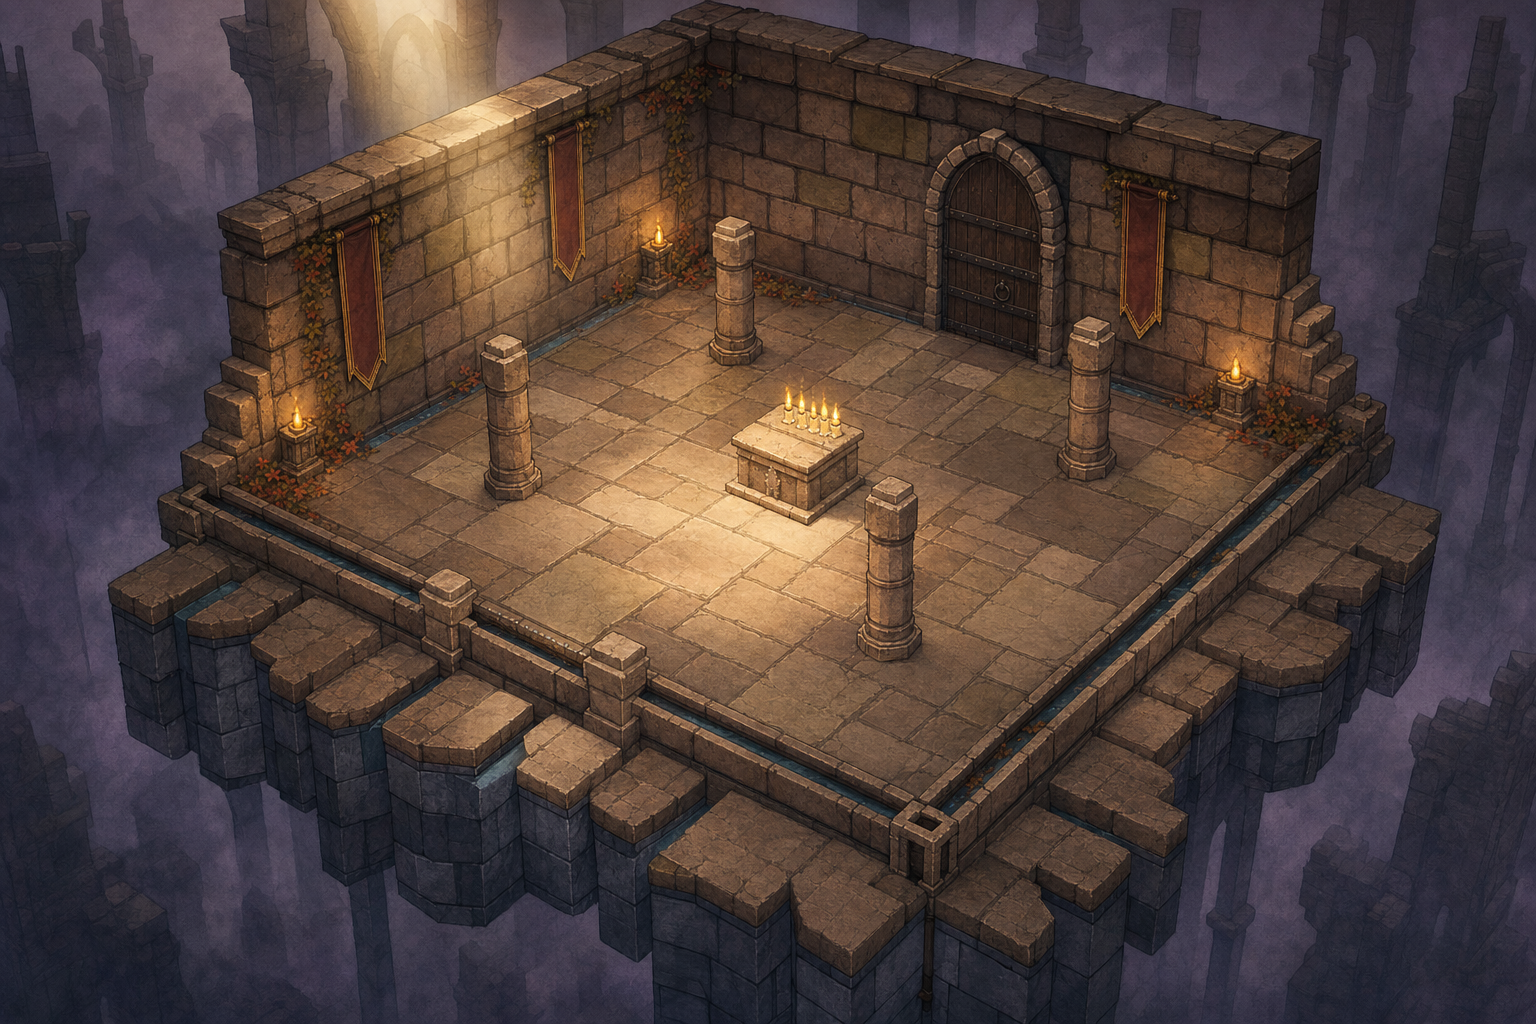
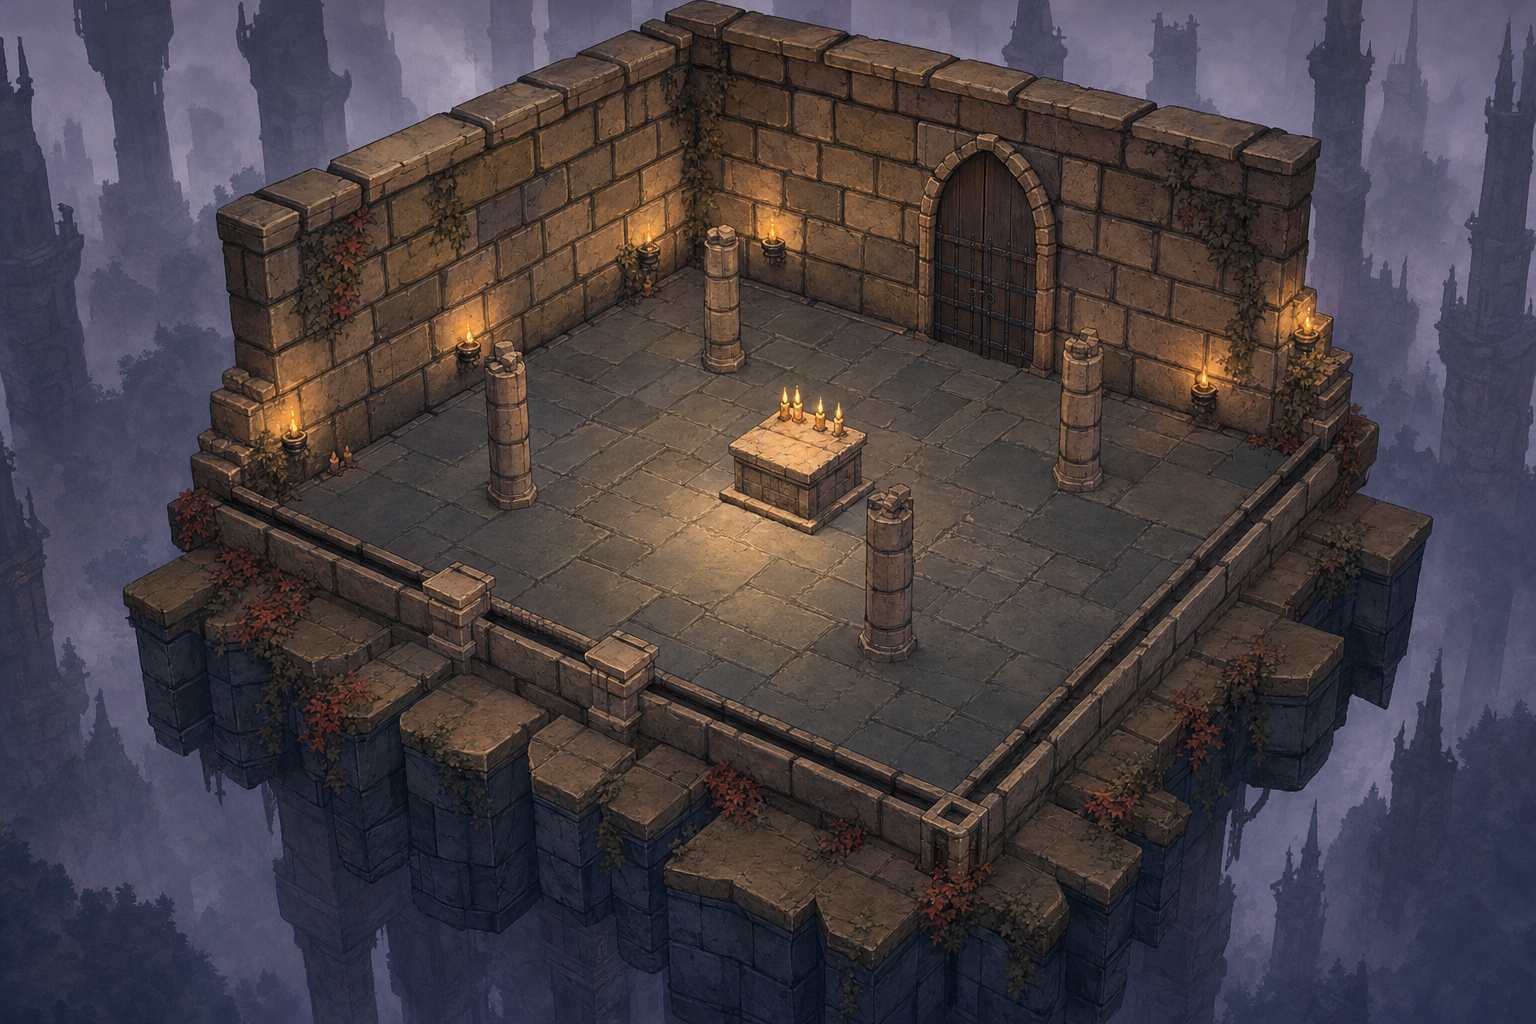
GP-8: Daniel's pick, the dark-floor paintings in all three rooms; exposure back to 0.9

diff --git a/docs/reference/art_core.md b/docs/reference/art_core.md
@@ -327,10 +327,12 @@ The first prototype (an old ChatGPT painting on proxy walls, 15 degree pitch) is
 ### GP-8 shipped (2026-11-27)
 - `PaintedHall.DEFAULT_ON = true`: the Salão (all `hall` rooms: combat, fountain, shop), the Sala 00 and the Antessala show
   the gpt-image-2 paintings in the stylized look (F7 classic shows the old stone). `--painted=off` turns them off.
-- `painted.gdshader`: `exposure` 0.52 (Daniel: the bright painting fought the fighters' contrast); omni lights are clamped
+- `painted.gdshader`: `exposure` 0.9 with the dark-floor paintings (0.52 with the first bright ones); omni lights are clamped
   (`LIGHT_COLOR / PI`, max 1) before `torch_boost`, otherwise the hero light and braziers burned the painting white.
 - Base captures for a repaint: `--doors-shut` keeps a room as before its doors open (no signs, leaves shut). Sala 01:
   `--start=fountain --doors-shut --showcase --cam-at=2,1 --cam-dist=68 --no-hud --no-angels --no-hero`; tell the generator
   to erase the fountain. Requests, poses and costs: `docs/art/painted_gpt/README.md`; agent `ai-art-producer`.
 - Approved direction (Daniel): warm, bright, hand-painted like Hades II, NO banners. The Sala 00 and Antessala
   paintings in use are the first ("atual") ones, still with banners: to redo without them.
+- 2026-11-27 Daniel chose the dark floor for all three (dark_v3: sala01-e3, sala00-e2, antessala-e2): floor mid-dark
+  grey-green, warmth only in light pools, no banners. This is the approved look for every painted room from now on.
